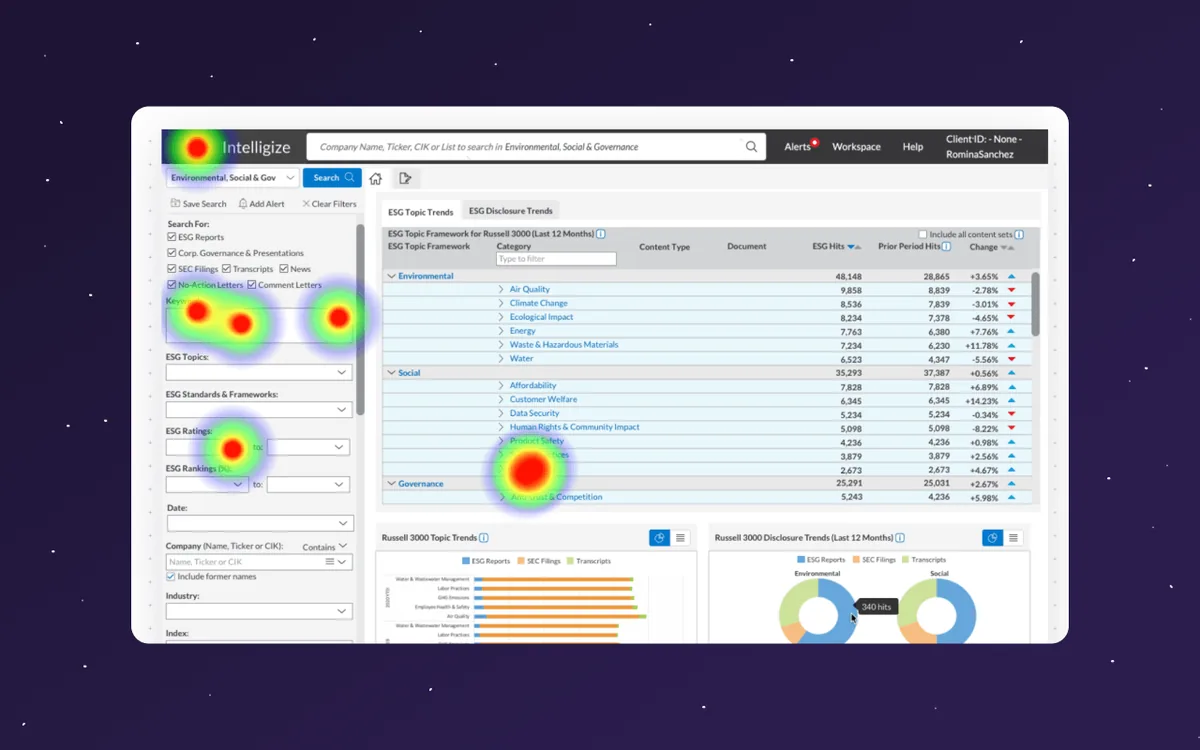
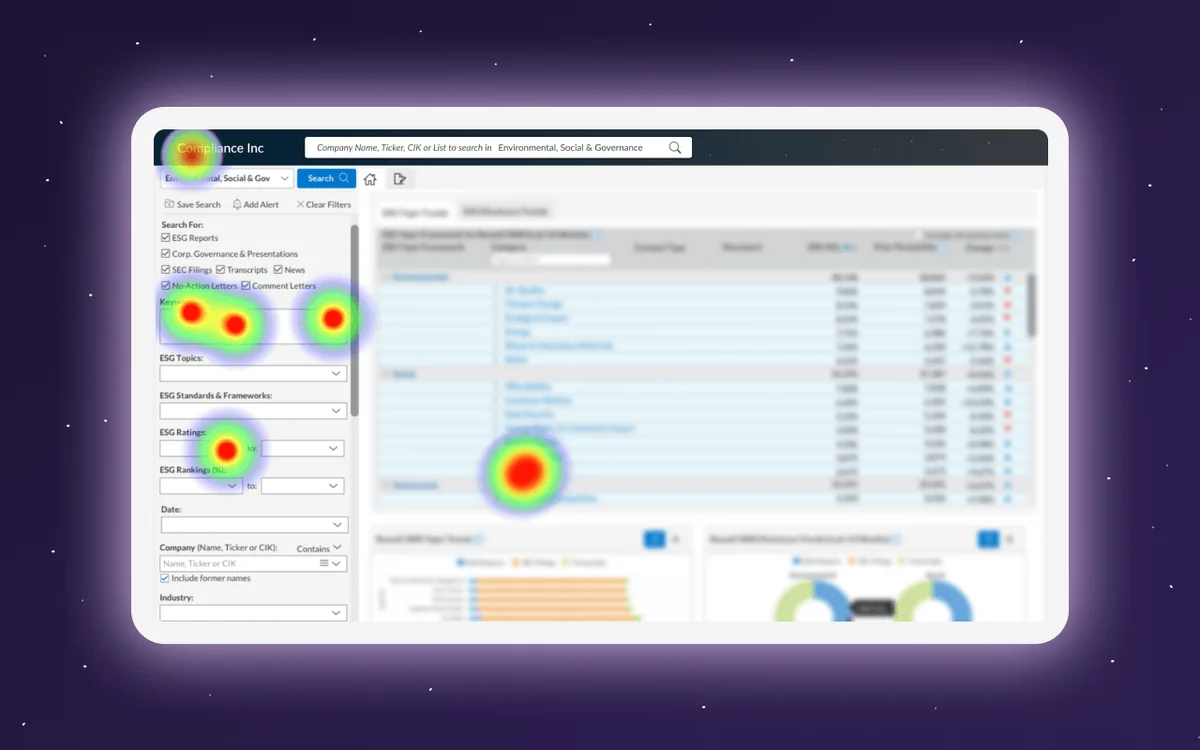
ESG: new hero/cover and interview image, zoomable hero, one-line callout, drop first placeholder
Claude-Session: https://claude.ai/code/session_01ScZWVYV6pDDWvBkjzV5qA5

diff --git a/case-studies/esg.html b/case-studies/esg.html
@@ -44,7 +44,7 @@
 <div><dt>Sector</dt><dd>Financial compliance</dd></div>
 <div><dt>Team</dt><dd>UX UI designer and 1 product owner</dd></div>
 </dl>
-<figure class="cover-wide"><img src="../assets/img/cover-esg.webp" alt="ESG search interface with a heatmap overlay on a dark starry background" width="1200" height="750" fetchpriority="high"></figure>
+<figure class="cover-wide"><a class="zoom" href="../assets/img/hero-esg-full.webp" target="_blank" rel="noopener" aria-label="Open the full-size image in a new tab: ESG search interface with a heatmap overlay on a dark starry background"><img src="../assets/img/hero-esg.webp" data-full="../assets/img/hero-esg-full.webp" alt="ESG search interface with a heatmap overlay on a dark starry background" width="1280" height="800" fetchpriority="high"></a></figure>
 </div>
 
 <article class="prose">
@@ -62,13 +62,9 @@
 <section id="outcomes">
 <h2>Outcomes</h2>
 <p>A research-led launch that became the best-selling app in the range, accounting for 42% of sales.</p>
-<div class="callout">
+<div class="callout callout--single">
 <div><span class="n">42%</span><span class="l">of sales: the top performer in the product range</span></div>
 </div>
-<figure class="figure">
-<div class="box" role="img" aria-label="App screen with charts">App screen with charts (image coming)</div>
-<figcaption>The ESG app</figcaption>
-</figure>
 </section>
 
 <section id="team">
@@ -92,7 +88,7 @@
 <li>Their opinions on the ratings, frameworks, and model disclosure available</li>
 </ul>
 <figure class="figure">
-<div class="box" role="img" aria-label="Photo from the user interview sessions">Photo from the user interview sessions (image coming)</div>
+<img src="../assets/img/esg-interviews.webp" alt="Recording of a remote user interview: the participant on video beside a Miro whiteboard with the ESG search filters" width="1360" height="850" loading="lazy">
 <figcaption>User interviews</figcaption>
 </figure>
 <p>We analyzed the insights using affinity maps to identify the users' <strong>needs and pain points</strong> for the new app.</p>

diff --git a/assets/css/styles.css b/assets/css/styles.css
@@ -171,6 +171,8 @@ h3{font-size:20px;font-weight:500;line-height:1.3}
 .figure--wide{width:min(1152px,calc(100vw - 48px));margin-left:50%;transform:translateX(-50%)}
 .figure .zoom{display:block;width:100%;padding:0;border:0;background:none;border-radius:var(--r-card);cursor:zoom-in;font:inherit;color:inherit}
 .figure .zoom:focus-visible{outline-offset:4px}
+.cover-wide .zoom{display:block;width:100%;height:100%;padding:0;border:0;background:none;cursor:zoom-in}
+.cover-wide .zoom:focus-visible{outline-offset:-2px}
 .lightbox{width:100vw;height:100vh;max-width:none;max-height:none;margin:0;padding:0;border:0;background:rgba(40,28,40,.94);color:#fff;overflow:hidden}
 .lightbox[open]{display:flex;flex-direction:column}
 .lightbox::backdrop{background:rgba(40,28,40,.94)}
@@ -200,6 +202,8 @@ h3{font-size:20px;font-weight:500;line-height:1.3}
 .callout{display:flex;flex-wrap:wrap;gap:16px 32px;margin-top:24px;padding:24px;border:1px solid var(--border);border-radius:var(--r-card);background:var(--surface)}
 .callout .n{display:block;font-size:36px;font-weight:300;line-height:1.1;color:var(--accent)}
 .callout .l{display:block;max-width:170px;font-size:14px;color:var(--muted)}
+.callout--single>div{display:flex;flex:1 1 100%;flex-wrap:wrap;align-items:baseline;gap:4px 16px}
+.callout--single .l{flex:1 1 220px;max-width:none}
 .next-wrap{max-width:680px;margin:0 auto;padding:72px 0 0}
 .next-wrap .card-body{gap:8px}
 .eyebrow{font-size:13px;font-weight:500;color:var(--muted)}

diff --git a/assets/js/lightbox.js b/assets/js/lightbox.js
@@ -1,7 +1,7 @@
 /* Click an image in a case study to see it full screen. Click the image again to toggle fit / full size.
    Without JavaScript the image stays a plain link (wide figures) or a normal picture. */
 (function () {
-  var imgs = document.querySelectorAll('.figure img');
+  var imgs = document.querySelectorAll('.figure img, .cover-wide img');
   if (!imgs.length || typeof HTMLDialogElement === 'undefined') return;
 
   var dlg = document.createElement('dialog');
